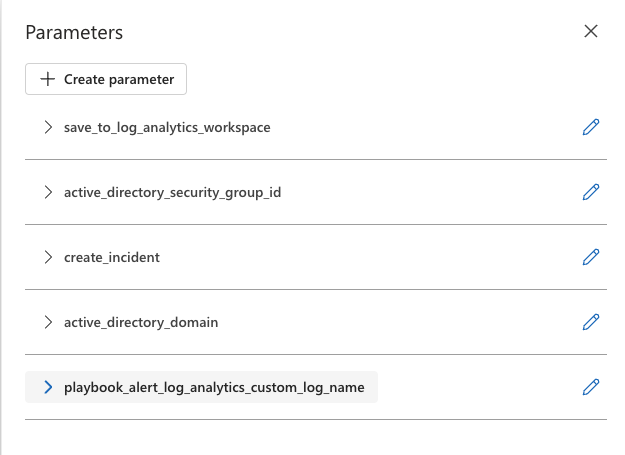
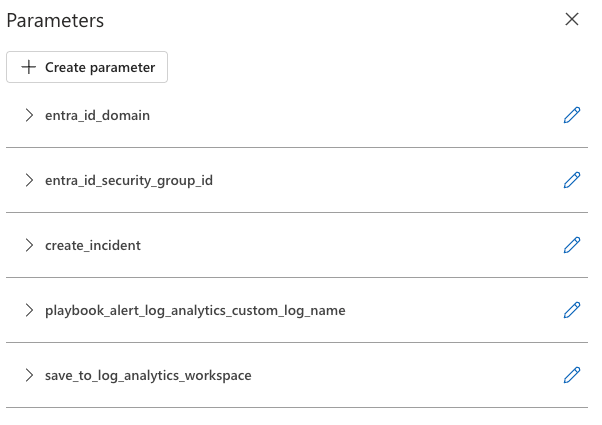
docs: further readme improvements

diff --git a/Solutions/Recorded Future Identity/Playbooks/readme.md b/Solutions/Recorded Future Identity/Playbooks/readme.md
@@ -31,7 +31,9 @@ Link to [Recorded Future Identity main readme](../readme.md)
 <a id="overview"></a>
 ## Overview
 
-This Solution contains two different **sub solutions** that consists of 9 playbooks (Logic Apps). Due to inconsistent naming of Logic Apps in Microsoft security products like Sentinel we will use the name playbooks instead of Logic Apps in this README. Depending on which **sub solution** that is chosen, follow the appropriate **readme**. This **readme** is for the recommended **Novel Identity Exposures** solution. For the **Identity** solution, see this [readme](v3.0/readme.md)
+This solution contains two approaches to deal with exposed credentials.
+- The recommended variant (based on Recorded Future Playbook Alerts) is described in this readme
+- The old variant (based on the Recorded Future Identity API) is located in the [v3.0](./v3.0) folder
 
 The playbooks need to be installed in the following order: custom-connector, and one of the alert playbooks.
 
@@ -59,23 +61,23 @@ These are the main playbooks
 
 ## Deployment
 
-Recorded Future recommend deploying playbooks in this solution from this README, first the connector and then deploy a playbook dependent on your use case. After installation configure connectors inside of the playbook. Lastly configure playbook parameters in the playbook.
+Recorded Future recommend deploying playbooks in this solution from this README, first the connector and then deploy a playbook dependent on your use case. After installation, configure the connectors inside of the playbook. Lastly, configure playbook parameters in the playbook.
 
 ### Prerequisites
 
 - A Microsoft Entra ID Tenant and subscription.
 - A Microsoft Entra ID security group to which you want to assign any users who have leaked credentials.
 - The user who installs the Logic Apps requires the permissions Azure Subscription Owner or Contributor. [Azure roles - Classic subscription administrator roles, Azure roles, and Entra ID roles](https://docs.microsoft.com/azure/role-based-access-control/rbac-and-directory-admin-roles#azure-roles).
-- The user who authorizes the Entra ID connector requires the permissions `Group.ReadWrite.All User.ReadWrite.All and Directory.ReadWrite.All`. For more information read <a href="https://learn.microsoft.com/en-us/connectors/azuread/" target="_blank"> ***here*** </a>
-- In Consumption logic apps, before you can create or manage logic apps and their connections, you need specific permissions. For more information about these permissions, review [Secure operations - Secure access and data in Azure Logic Apps](https://docs.microsoft.com/azure/logic-apps/logic-apps-securing-a-logic-app#secure-operations).
+- The user who authorizes the Entra ID connector requires the permissions `Group.ReadWrite.All User.ReadWrite.All and Directory.ReadWrite.All`. For more information read <a href="https://learn.microsoft.com/en-us/connectors/azuread/" target="_blank"> ***here*** </a>.
+- In Consumption Logic Apps, before you can create or manage Logic Apps and their connections, you need specific permissions. For more information about these permissions, review [Secure operations - Secure access and data in Azure Logic Apps](https://docs.microsoft.com/azure/logic-apps/logic-apps-securing-a-logic-app#secure-operations).
 
 - For `Recorded Future Identity` Connections you will need `Recorded Future Identity API` token. To obtain one - check out [this section](#how_to_obtain_Recorded_Future_API_token).
-- Configure `Recorded Future Identity Exposure Playbook Alerts` for your use case, detailed information on how to - view this <a href="https://support.recordedfuture.com/hc/en-us/articles/21314816259859-Identity-Exposure-Playbook-Alert-Configuration" target="_blank"> guide </a>(requires Recorded Future login)
+- Configure `Recorded Future Identity Exposure Playbook Alerts` for your use case within the Recorded Future portal. For detailed instructions, see <a href="https://support.recordedfuture.com/hc/en-us/articles/21314816259859-Identity-Exposure-Playbook-Alert-Configuration" target="_blank">this guide</a> (requires Recorded Future login).
 
 #### Optional prerequisites
-These prerequisites is required for the playbooks **RFI-playbook-alert-importer-law** and **RFI-playbook-alert-importer-law-sentinel**
-- A [Log Analytics workspace](https://docs.microsoft.com/azure/azure-monitor/essentials/resource-logs#send-to-log-analytics-workspace). If you don't have a workspace, learn [how to create a Log Analytics workspace](https://docs.microsoft.com/azure/azure-monitor/logs/quick-create-workspace). Note that the custom logs specified as parameters in these logic apps will be created automatically if they don’t already exist. Note the name of the Log Analytic Workspace, it will be used at a later stage of the deployment.
-- During installation, the person performing the installations of the playbooks require <a href="https://learn.microsoft.com/en-us/azure/role-based-access-control/built-in-roles#logic-app-contributor" target="_blank">_**Logic App Contributor**_</a> and <a href="https://learn.microsoft.com/en-us/azure/role-based-access-control/built-in-roles#microsoft-sentinel-contributor" target="_blank">_**Microsoft Sentinel Contributor**_ </a> permissions on a **Resource Group** level,
+These prerequisites is required for the **RFI-playbook-alert-importer-law** and **RFI-playbook-alert-importer-law-sentinel** playbooks:
+- A [Log Analytics workspace](https://docs.microsoft.com/azure/azure-monitor/essentials/resource-logs#send-to-log-analytics-workspace). If you don't have a workspace, learn [how to create a Log Analytics workspace](https://docs.microsoft.com/azure/azure-monitor/logs/quick-create-workspace). Note that the custom logs specified as parameters in these Logic Apps will be created automatically if they don’t already exist. Note the name of the Log Analytic Workspace, it will be used at a later stage of the deployment.
+- The user who installs the Logic Apps require <a href="https://learn.microsoft.com/en-us/azure/role-based-access-control/built-in-roles#logic-app-contributor" target="_blank">_**Logic App Contributor**_</a> and <a href="https://learn.microsoft.com/en-us/azure/role-based-access-control/built-in-roles#microsoft-sentinel-contributor" target="_blank">_**Microsoft Sentinel Contributor**_ </a> permissions on a **Resource Group** level.
 
 
 <a id="playbooks"></a>
@@ -115,7 +117,7 @@ This connector is used by other playbooks in this solution to communicate with R
 
 ## Alert Playbooks
 
-Search the Recorded Future Identity Intelligence Module for compromised identities, depending on use case, select the playbook that fits.
+Search the Recorded Future Identity Intelligence Module for compromised identities. Depending on your use case, select the playbook that fits.
 
 <details>
 <summary> Workflow of Alert Playbooks</summary>
@@ -175,7 +177,7 @@ Depending on your use case, deploy **one** of the following playbooks:
 | **Save_to_log_analytics_workspace**              | Boolean parameter to determine if the playbook should save the detailed Playbook Alert information to Log Analytics Workspace (LAW).                                   |
 | **Entra_id_security_group_id**                   | ID of the the group in which to place risky users                                                                                                                      |
 | **Entra_id_domain**                              | (Optional) If domains does not match between external and Entra ID domains specify the domain used in Entra ID. Example: john.smith@acme -> john.smith@onmicrosoft.com |
-| **Playbook_alert_log_analytics_custom_log_name** | Name of the custom log in Log Analytics Workspace, defaults to "RecordedFutureIdentity_PlaybookAlertResults_CL"                                                        |
+| **Playbook_alert_log_analytics_custom_log_name** | Name of the custom log in Log Analytics Workspace, defaults to `RecordedFutureIdentity_PlaybookAlertResults_CL`.                                                       |
 | **RFI Custom Connector**                         | Name of the custom connector which to connect to Recorded Future with, should typically not deviate from `RFI-CustomConnector-0-2-0`                                   |
 </details>
 <hr/>
@@ -199,7 +201,7 @@ Depending on your use case, deploy **one** of the following playbooks:
 | **Entra_id_security_group_id**                   | ID of the the group in which to place risky users|
 | **Create_incident**                              |Boolean parameter to determine if the playbook should create a incident in Microsoft Sentinel|
 | **Entra_id_domain**                              | (Optional) If domains does not match between external and Entra ID domains specify the domain used in Entra ID. Example: john.smith@acme -> john.smith@onmicrosoft.com |
-| **Playbook_alert_log_analytics_custom_log_name** |Name of the custom log in Log Analytics Workspace, defaults to "RecordedFutureIdentity_PlaybookAlertResults_CL"|
+| **Playbook_alert_log_analytics_custom_log_name** |Name of the custom log in Log Analytics Workspace, defaults to `RecordedFutureIdentity_PlaybookAlertResults_CL`|
 | **RFI Custom Connector**                         | Name of the custom connector which to connect to Recorded Future with, should typically not deviate from `RFI-CustomConnector-0-2-0`|
 </details>
 <hr/>
@@ -213,7 +215,7 @@ To find installed Playbooks (Logic Apps) after deployment - you can search for `
 <a id="configuration_connections"></a>
 ### Configuring Playbook Connections
 
-After deployment - create/validate the Connections in each of deployed Playbooks. The logic app will have errors and save is disabled until all connectors are authorized.
+After deployment - create/validate the Connections in each of deployed Playbooks. The Logic App will have errors and save is disabled until all connectors are authorized.
 
 <img src="./images/playbookauth2.png" alt="Logic Apps Parameters #1" width="70%"/>
 
@@ -231,17 +233,17 @@ The Recorded Future identity solution uses the following connectors, some are re
 | **/azuresentinel** (Optional)| <a href="https://learn.microsoft.com/en-us/connectors/azuresentinel/" target="_blank">Documentation on Microsoft power platform connectors </a> |
 
 
-Each installed logic app uses various connectors that needs to be authorized, each of the connectors needs to be authorized in different ways depending on their type.
+Each installed Logic App uses various connectors that needs to be authorized, each of the connectors needs to be authorized in different ways depending on their type.
 
-Below are guides that a tailored to our recommended authorization flow (Managed Identity, when possible), depending on organizational rules, the flow might be different. Please consult with your Azure administrator in those cases. Multi-tenant authorizations are untested, please consult with your Azure administrators for proper authorization flow.
+Below are guides that are tailored to our recommended authorization flow (Managed Identity, when possible). Depending on your organizational rules, the flow might be different. Please consult with your Azure administrator in those cases. Multi-tenant authorizations are untested, please consult with your Azure administrators for proper authorization flow.
 <details>
 <summary>Expand to see rfi-custom-connector authorization guide</summary>
 
 <br>
 
-After a logic app has been installed, the **RFI-CustomConnector-0-2-0** needs to be authorized. This only needs to be done once. If there are any uncertainties expand all nodes in the logic app after installation and look for blocks marked with a warning sign.
+After a Logic App has been installed, the **RFI-CustomConnector-0-2-0** needs to be authorized. This only needs to be done once. If there are any uncertainties expand all nodes in the Logic App after installation and look for blocks marked with a warning sign.
 
-1. Go to the specific logic app,  in the left menu click on the section _**Development tools**_
+1. Go to the specific Logic App,  in the left menu click on the section _**Development tools**_
 2. Click on **_API connections_**
 3. Click on **_RFI-CustomConnector-0-2-0_**
 4. Click on **_General_** in the left menu on the newly opened section
@@ -282,15 +284,15 @@ The **azuresentinel** connector needs to be authorized for the solution to write
 
 For more detailed information check out this Microsoft <a href="https://learn.microsoft.com/en-us/azure/logic-apps/authenticate-with-managed-identity?tabs=consumption" target="_blank">guide</a>
 
-These steps will be needed for each logic app that uses the **azuresentinel** / **RecordedFuture-MicrosoftSentinelConnection**
-1. Go to the specific logic app,  in the left menu click on the section _**Settings**_
+These steps will be needed for each Logic App that uses the **azuresentinel** / **RecordedFuture-MicrosoftSentinelConnection**
+1. Go to the specific Logic App,  in the left menu click on the section _**Settings**_
 2. Click on _**Identity**_
 2. Click on the _**System Assinged**_ tab at the top of the page
 3. If needed, Toggle the _**Status**_ to _**On**_ then click _**Save**_
 ![managedidentity1](images/managedidentity1.png)
 4. Click on _**Azure role assignments**_
 5. Click on _**Add new role assignment (Preview)**_
-6. Set _**Scope**_ to _**Resource Group**_, choose **Subscription**, choose the **Resource Group** in which the logic app is installed on and set the _**Role**_ to _**Microsoft Sentinel Contributor**_
+6. Set _**Scope**_ to _**Resource Group**_, choose **Subscription**, choose the **Resource Group** in which the Logic App is installed on and set the _**Role**_ to _**Microsoft Sentinel Contributor**_
 ![managedidentity2](images/managedidentity2.png)
 
 7. Click _**Save**_
@@ -328,22 +330,22 @@ Recorded Future Support will connect with your account team to confirm licensing
 
 
 <a id="configuration_parameters"></a>
-### Configuring search Playbooks Parameters
+### Configuring playbook parameters
 
-Search playbooks are configured using Playbooks Parameters. Parameters can be found and set in the Logic App designer.
+The playbook parameters can be found and set in the Logic App designer:
 
 <img src="./images/playbookparameters2.png" alt="Logic Apps Parameters #1" width="80%"/>
 
-Example shows all parameters, number of parameters depends on playbook used
+(Example above shows all parameters, number of parameters depends on playbook used)
 
-### Playbook parameters for Search Playbooks.
+### Playbook parameters
 
-- **You need to create a Microsoft EntraID Group, and provide the Object ID as a parameter to the Playbook. For more information, see [Microsoft EntraID Groups](https://learn.microsoft.com/en-us/entra/fundamentals/how-to-manage-groups) documentation.**
+- **You need to create a Microsoft Entra ID group, and provide the Object ID as a parameter to the Playbook. For more information, see [Microsoft EntraID Groups](https://learn.microsoft.com/en-us/entra/fundamentals/how-to-manage-groups) documentation.**
 
 | Parameter | Description |
 |-|-|
-| **active_directory_security_group_id** | Object ID of Microsoft EntraID Group for users at risk. You need to pre-create it by hand: search for "Groups" in Service search at the top of the page. For more information, see [Microsoft EntraID Groups](https://docs.microsoft.com/windows/security/identity-protection/access-control/active-directory-security-groups) documentation. |
-| **active_directory_domain** | (Optional, can be left empty) - in case your Microsoft EntraID domain is different from your organization domain, this parameter will be used to transform compromised credentials to find corresponding user in your Microsoft EntraID (ex. Compromised email: leaked@mycompany.com), your Microsoft EntraID domain: `@mycompany.onmicrosoft.com`, so you set parameter `active_directory_domain = mycompany.onmicrosoft.com` (**just domain, without "@"**), and search playbooks will replace the domain from the leaked email with the provided domain from the active_directory_domain parameter, before searching for the corresponding user in your Microsoft EntraID: `leaked@mycompany.com ->  leaked@mycompany.onmicrosoft.com`. (Lookup playbook - will still use the original email to Lookup the data). |
+| **entra_id_security_group_id** | Object ID of Microsoft EntraID Group for users at risk. You need to pre-create it by hand: search for "Groups" in Service search at the top of the page. For more information, see [Microsoft EntraID Groups](https://docs.microsoft.com/windows/security/identity-protection/access-control/active-directory-security-groups) documentation. |
+| **entra_id_domain** | (Optional, can be left empty) - in case your Microsoft EntraID domain is different from your organization domain, this parameter will be used to transform compromised credentials to find corresponding user in your Microsoft EntraID (ex. Compromised email: leaked@mycompany.com), your Microsoft EntraID domain: `@mycompany.onmicrosoft.com`, so you set parameter `entra_id_domain = mycompany.onmicrosoft.com` (**just domain, without "@"**), and search playbooks will replace the domain from the leaked email with the provided domain from the entra_id_domain parameter, before searching for the corresponding user in your Microsoft EntraID: `leaked@mycompany.com ->  leaked@mycompany.onmicrosoft.com`. (Lookup playbook - will still use the original email to Lookup the data). |
 | **save_to_log_analytics_workspace** |(Optional, requires Log Analytics Workspace) - Boolean parameter to determine if the playbook should save the detailed Playbook Alert information to Log Analytics Workspace (LAW)|
 | **create_incident** | (Optional, requires Microsoft Sentinel) - Boolean parameter to determine if the playbook should create a incident in Microsoft Sentinel|
 |**playbook_alert_log_analytics_custom_log_name**| (Optional, requires Log Analytics Workspace) - Name of custom log where detailed Playbook Alert lookup information will be stored. Defaults to `RecordedFutureIdentity_PlaybookAlertResults_CL`|
@@ -354,7 +356,7 @@ Example shows all parameters, number of parameters depends on playbook used
 <a id="how_to_run_playbooks"></a>
 ## How to run Playbooks
 
-RFI-playbook-alert-importer (-law/-law-sentinel) are running on recurrence schedule. It's possible to reschedule or change interval.
+`RFI-playbook-alert-importer` (`-law`/`-law-sentinel`) runs on a recurring schedule. It's possible to reschedule or change interval.
 
 <img src="./images/runningPlaybooks2.png" alt="Empty Lookup results" width="90%"/>
 
@@ -371,8 +373,7 @@ To see Log Analytics Custom Logs:
 Recorded Future Identity Solution is a baseline solution, there are ways to customize it to your preferred workflow.
 
 #### Playbook Alert Onward Actions
-By default the Playbook Alert Update steps have been configured with `added_actions_taken` set to `identity_novel_exposures.placed_in_risky_group`, if the solution is extended with actions such as blocking users or forcing password resets, you can submit this information to Recorded Future, currently the following actions are supported.
-
+By default the Playbook Alert Update steps have been configured with `added_actions_taken` set to `identity_novel_exposures.placed_in_risky_group`, if the solution is extended with actions such as blocking users or forcing password resets, you can submit this information to Recorded Future. Currently the following actions are supported:
 | Action |
 |-|
 |identity_novel_exposures.enforced_password_reset|
@@ -382,16 +383,16 @@ By default the Playbook Alert Update steps have been configured with `added_acti
 |identity_novel_exposures.account_remediated|
 |identity_novel_exposures.other|
 
-To change/add actions, modify the items under `added_actions_taken` parameter in the Playbook Alerts Update step
+To change/add actions, modify the items under `added_actions_taken` parameter in the Playbook Alerts Update step:
 
-![alt text](images/added_actions_taken.png)
+![Changing the Added actions taken parameter](images/added_actions_taken.png)
 
 <a id="known_issues"></a>
 ## Known Issues
 
 Microsoft Entra ID Protection is a premium feature. You need an Microsoft Entra ID P1 or P2 license to access the `riskDetection` API (note: P1 licenses receive limited risk information). The `riskyUsers` API is only available to Microsoft Entra ID P2 licenses only. If your organization does not have P1 or P2 license, then the `Get risky user` step will fail, but the run will continue and complete.
 
-![alt text](images/risky_user_fail.png)
+![Failed Get Risky User step](images/risky_user_fail.png)
 
 
 <a id="useful_documentation"></a>

diff --git a/Solutions/Recorded Future Identity/readme.md b/Solutions/Recorded Future Identity/readme.md
@@ -18,8 +18,8 @@ They include:
 
 1. Searches for compromised workforce or external customer users
 1. Looking up existing users and saving the compromised user data to a Log file
-1. Confirming high risk Microsoft Entra ID (EntraID) users
-1. Adding a compromised user to an EntraID security group
+1. Confirming high risk Microsoft Entra ID users
+1. Adding a compromised user to an Entra ID security group
 
 [Installation guide](Playbooks/readme.md)
 
